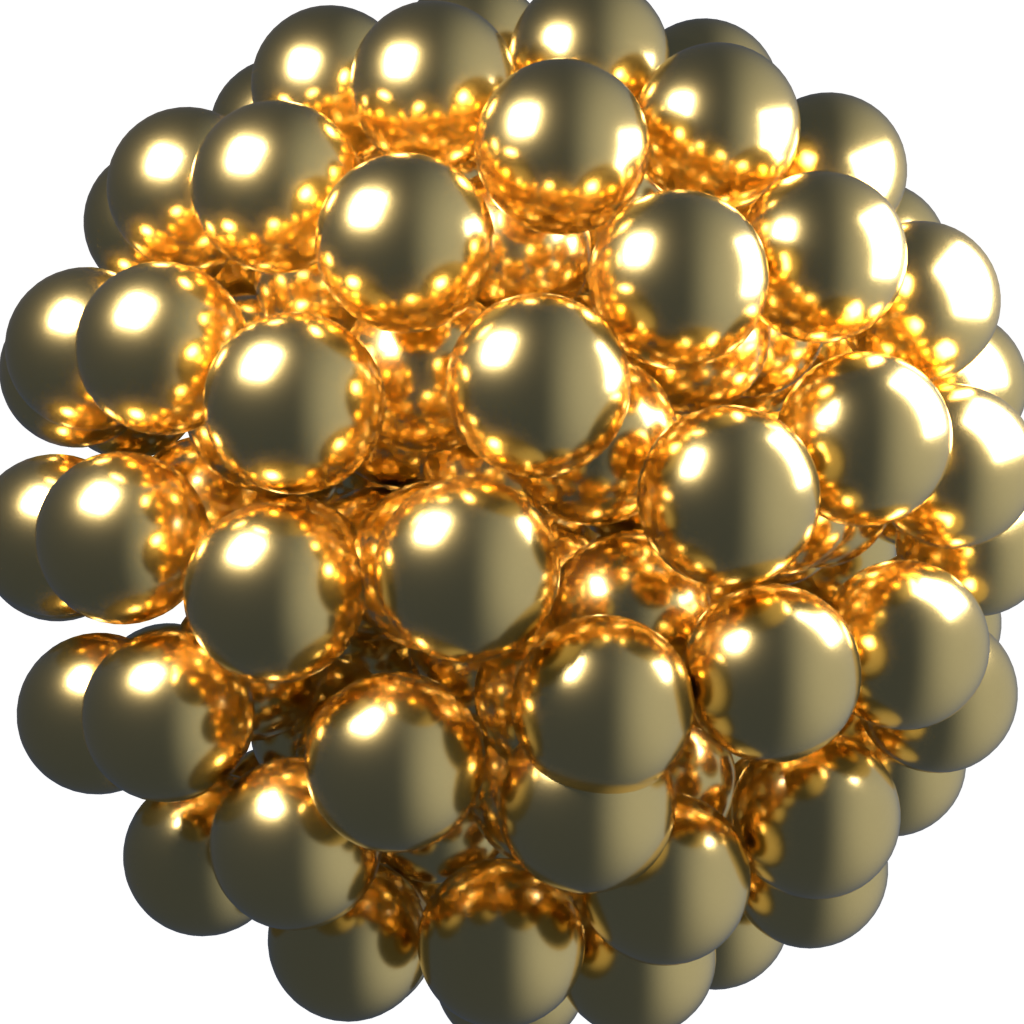
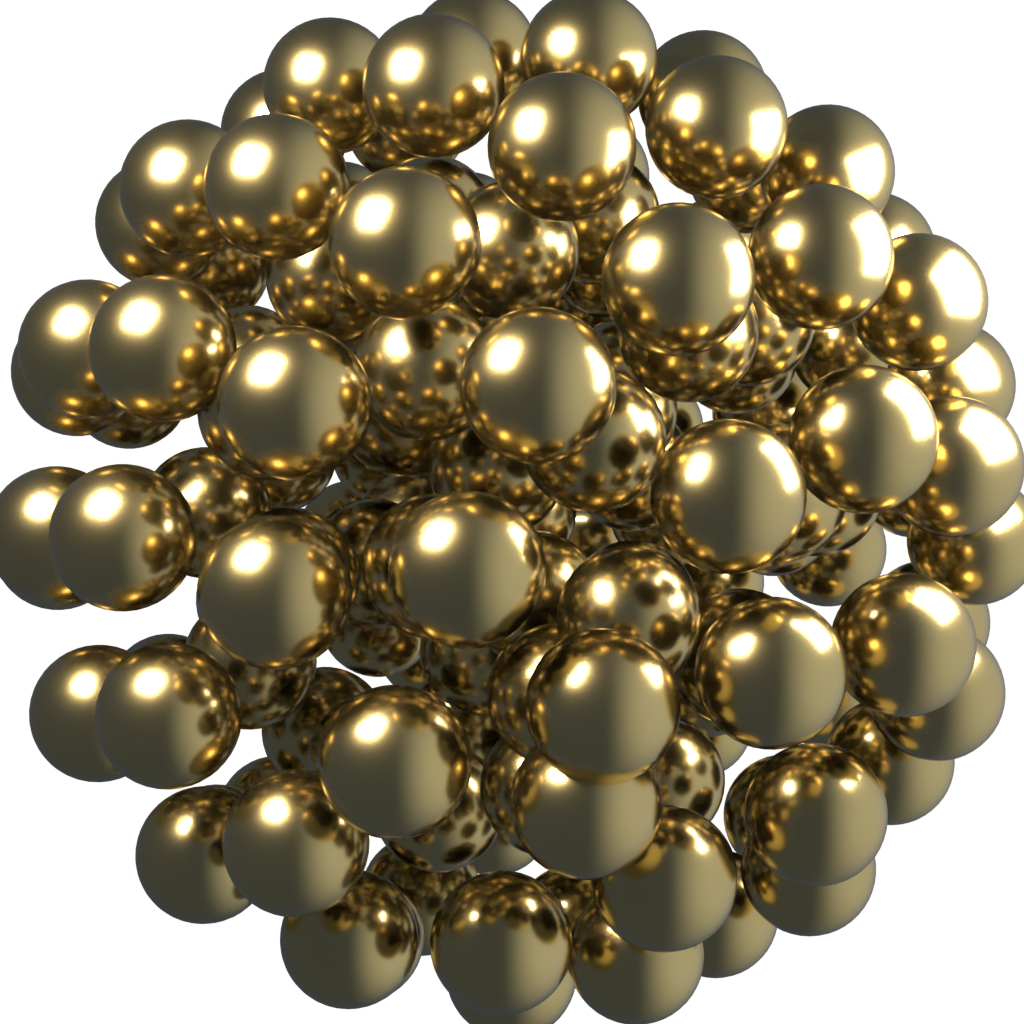
Site: kill the "molten/welded" crevice look on clusters
The previous renders had bright orange "welds" sitting in the gaps
between adjacent gold atoms. Two compounding causes:

1. Adjacent gold spheres bouncing light back and forth — at Cycles'
   default 12 bounces, the colour multiplies in tight crevices and
   reads as molten metal, not discrete atoms.
2. Atoms touching exactly (radius 1.0, separation 2.0) — no visible
   gap to anchor each ball as its own object.

Fix:
- Atom radius 1.0 → 0.85 with the inter-shell spacing kept at 2.0,
  so every adjacent atom now has a clean ~0.3-unit gap.
- Cycles bounces clamped: max=2, glossy=1, diffuse/transmission/
  volume=0 (metals have no diffuse path anyway).
- sample_clamp_indirect=1.5 — any radiosity hotspot that survives
  the bounce limit is brought down to a sane level.

Cluster now reads as a tight ball of distinct polished spheres rather
than a melted blob.

diff --git a/docs/render_clusters.py b/docs/render_clusters.py
@@ -30,6 +30,12 @@ for cam   in list(bpy.data.cameras):    bpy.data.cameras.remove(cam)
 
 
 # ─── Truly spherical onion-shell cluster ─────────────────────────────
+# Visible ball radius. The cluster's "lattice" spacing is 2.0 (so adjacent
+# shells are 2.0 apart), and any value < 1.0 leaves a small gap between
+# adjacent atoms — keeps them visually discrete instead of melted.
+ATOM_R = 0.85
+
+
 def fib_sphere(n, radius):
     """N points uniformly distributed on a sphere of given radius
     (Fibonacci-spiral lattice — no clustering, no FCC facets)."""
@@ -47,17 +53,24 @@ def fib_sphere(n, radius):
     return pts
 
 
-def spherical_cluster(n_shells, atom_r=1.0):
+def spherical_cluster(n_shells, atom_r=0.92):
     """Mackay-icosahedral magic atom counts (1, 12, 42, 92, 162) but laid
     out on Fibonacci-uniform spheres → perfectly round cluster, no
     crystallographic facets visible.
+
+    Default atom_r=0.92 leaves a small visible gap between adjacent
+    atoms so they read as discrete spheres instead of looking melted
+    together by indirect-light hot-spots in the crevices.
 
     n_shells = 3 → 1 + 12 + 42 + 92 = 147 atoms (Mackay magic M147).
     """
     shell_counts = [12, 42, 92, 162, 252]
     atoms = [(0.0, 0.0, 0.0)]
+    # Inter-shell separation stays at 2.0 (the unit "lattice") so the
+    # cluster keeps the same overall size; only the rendered ball size
+    # shrinks via atom_r.
     for s in range(n_shells):
-        r = (s + 1) * 2.0 * atom_r
+        r = (s + 1) * 2.0
         atoms.extend(fib_sphere(shell_counts[s], r))
     return atoms
 
@@ -109,7 +122,7 @@ print(f"[render] mode={mode}  atoms={len(atoms)}")
 # ─── Place atoms ────────────────────────────────────────────────────
 # Build a single low-poly sphere mesh, then instance it for every atom
 # (much faster than calling primitive_uv_sphere_add 147 times).
-bpy.ops.mesh.primitive_uv_sphere_add(radius=1.0, segments=48, ring_count=24)
+bpy.ops.mesh.primitive_uv_sphere_add(radius=ATOM_R, segments=48, ring_count=24)
 template = bpy.context.object
 template.name = "atom_template"
 bpy.ops.object.shade_smooth()
@@ -217,6 +230,16 @@ scene = bpy.context.scene
 scene.render.engine                     = 'CYCLES'
 scene.cycles.samples                    = 192
 scene.cycles.use_denoising              = True
+# Kill the "molten / welded crevice" look: cap glossy bounces at 1 so
+# gold-on-gold reflections can't compound into hot spots, and clamp
+# indirect light so any remaining radiosity hot-spot is brought down
+# to a sane level.
+scene.cycles.max_bounces                = 2
+scene.cycles.diffuse_bounces            = 0   # metals have no diffuse
+scene.cycles.glossy_bounces             = 1
+scene.cycles.transmission_bounces       = 0
+scene.cycles.volume_bounces             = 0
+scene.cycles.sample_clamp_indirect      = 1.5
 scene.render.resolution_x               = 1024
 scene.render.resolution_y               = 1024
 scene.render.film_transparent           = True
